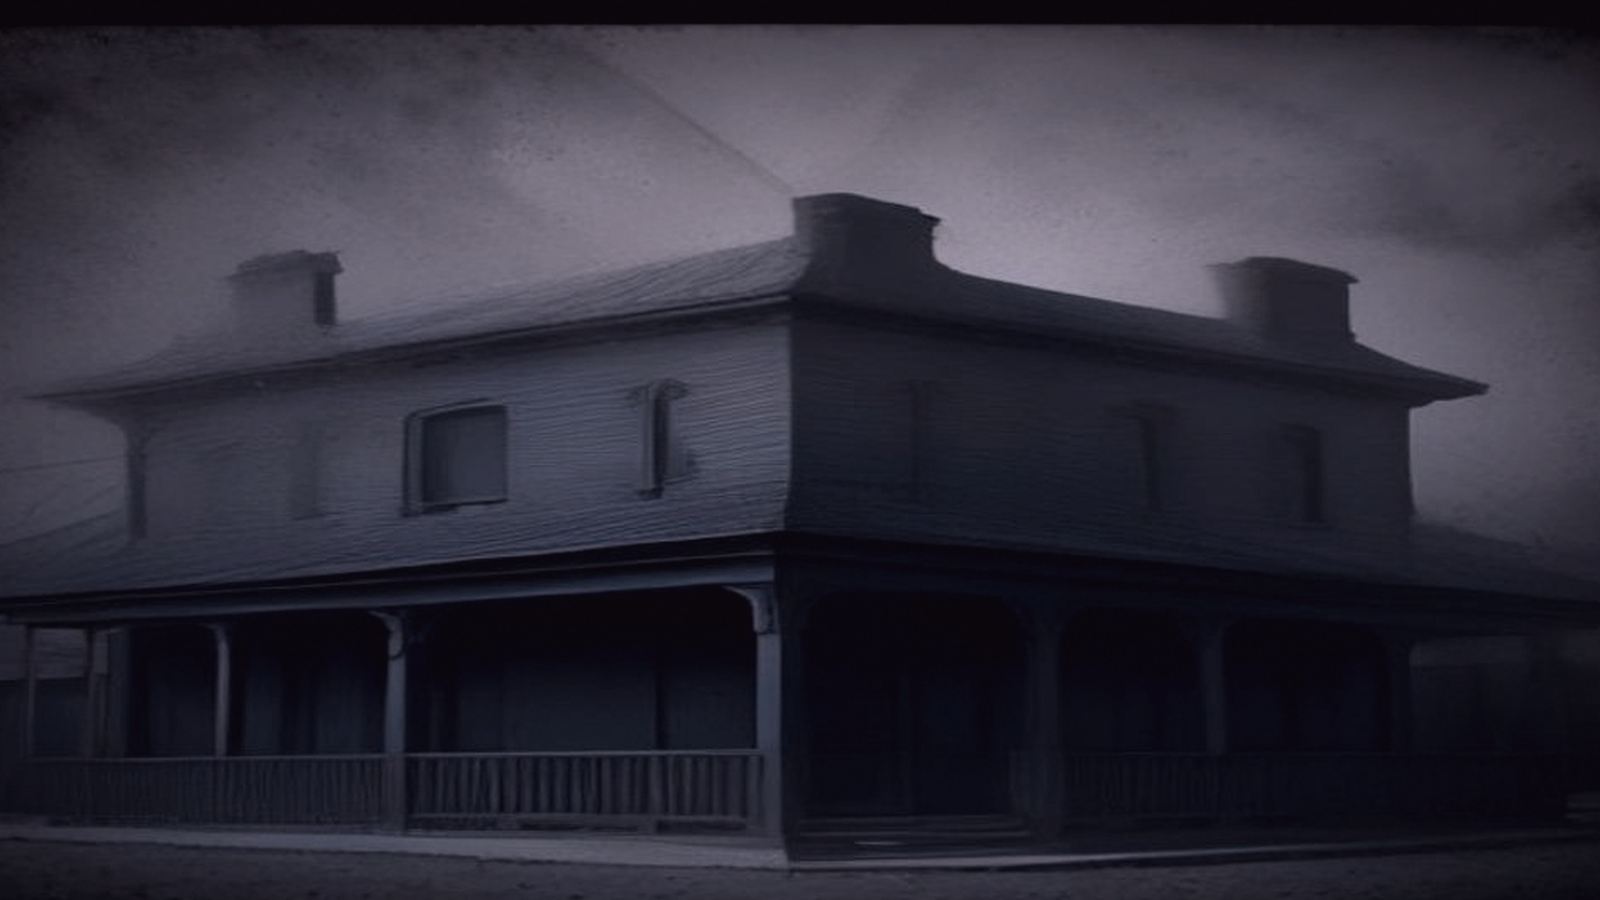
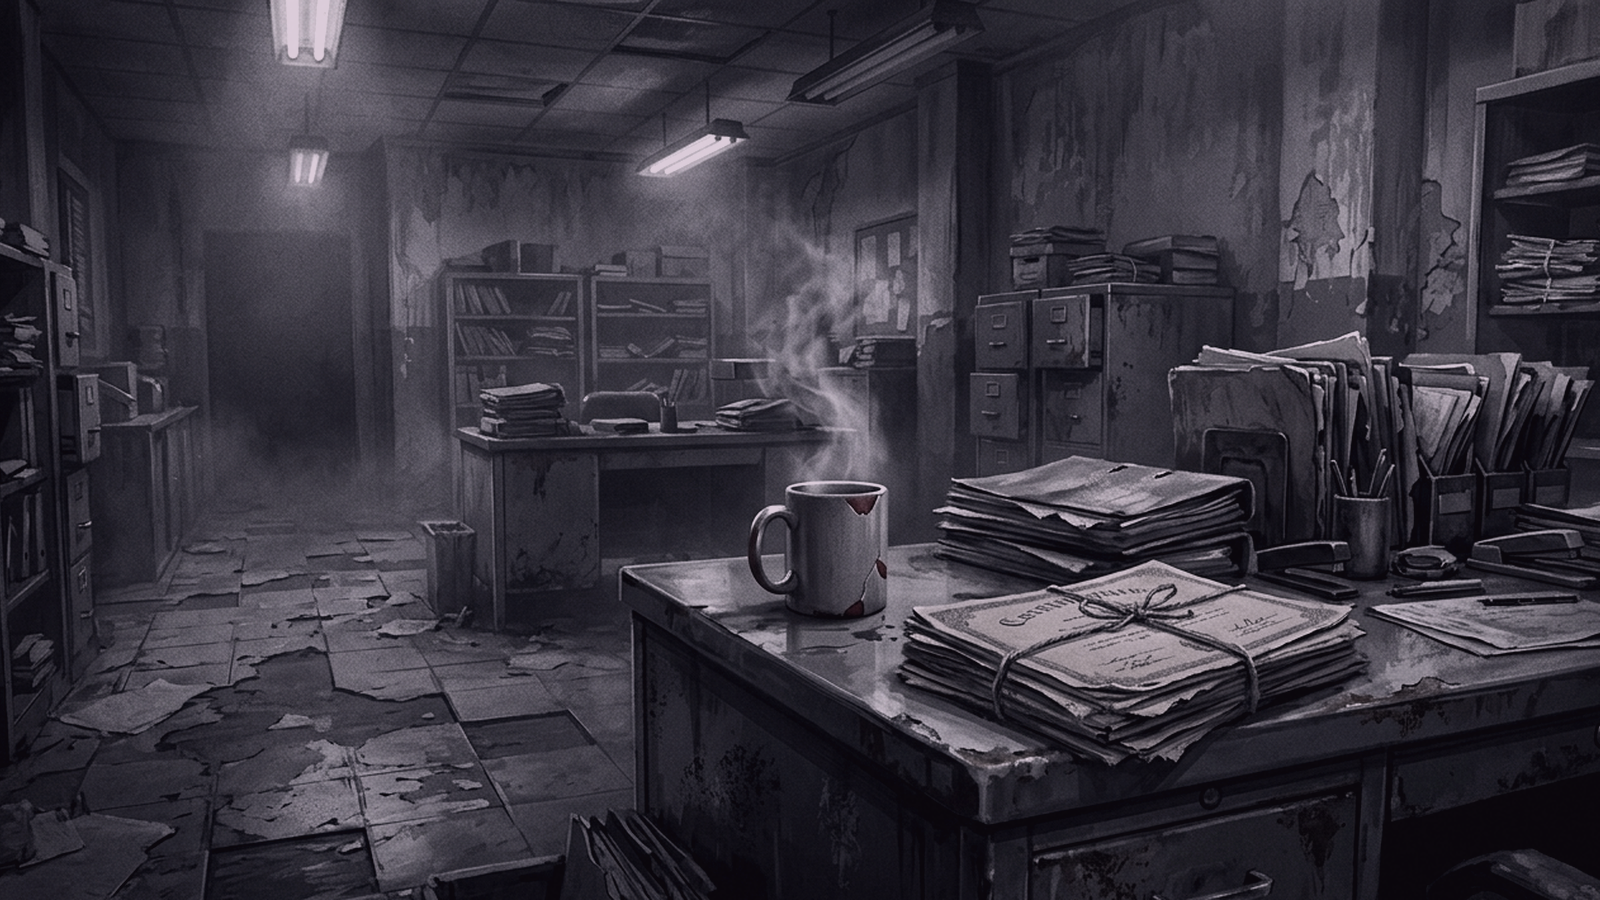
Illustrate daily stories: Nano Banana heroes + inline CSS-animated stills
Regenerated the 3 daily story cover images and added 4 inline illustrations
each (Ken Burns + fog), generated via local-LLM scene summaries → Gemini in the
series' fixed charcoal style.

diff --git a/daily/the-brass-threshold.html b/daily/the-brass-threshold.html
@@ -112,24 +112,40 @@
                     <p>
                         Mrs. Jensen shuffled into the office five minutes later, wiping her knuckles on a grease-stained canvas apron. "I'm dropping batter in the skillet at six, Perla. You want three pancakes or four?"
                     </p>
+                    <figure class="story-illus anim-kenburns">
+                        <img src="../images/daily/the-brass-threshold-illus-1.png" alt="" width="1280" height="720" loading="lazy" decoding="async">
+                        <span class="story-illus__fog" aria-hidden="true"></span>
+                    </figure>
                     <p>
                         Above the counter, a twin-tube fluorescent fixture hummed at sixty hertz, flickering once before settling into a dull yellow glare across the Formica.
                     </p>
                     <p>
                         Perla nodded without looking up. She knew the cadence of this place down to the inch. For nearly a month she had been stopping here to provide end-of-life care for Emily Wilson, a seventy-two-year-old former seamstress dying of pleural mesothelioma. Mr. Thompson, the funeral director, had paid Mrs. Jensen out of his own pocket to remain on site after midnight, turning the back wing into an impromptu hospice ward so Emily would not have to die in a county hospital three towns over. Perla arrived every morning at 4:30 a.m. to review the dosage charts with Mrs. Jensen and track Emily’s oxygen drops.
                     </p>
+                    <figure class="story-illus anim-kenburns">
+                        <img src="../images/daily/the-brass-threshold-illus-2.png" alt="" width="1280" height="720" loading="lazy" decoding="async">
+                        <span class="story-illus__fog" aria-hidden="true"></span>
+                    </figure>
                     <p>
                         She walked down the narrow central hallway toward the back room. As she passed the doorframe of Emily’s quarters, her right arm brushed against the pine jamb. The wood was worn down to the bare grain at precisely five feet four inches from the floor—her exact shoulder height—polished smooth by dozens of daily passes. She did not stop to look at it. Her focus was entirely on the cold air pushing out from under the threshold. The room’s radiator had died hours ago; the temperature had plummeted to fifty-two degrees, and Emily’s chest was moving in shallow, dry hitchings beneath two heavy wool blankets.
                     </p>
                     <p>
                         Perla went to the staff break room to retrieve the morning chart, expecting Mrs. Jensen’s usual arrangement on the counter: one mug half-filled with cold tap water and a single brown paper towel folded twice beside the zinc sink.
                     </p>
+                    <figure class="story-illus anim-kenburns">
+                        <img src="../images/daily/the-brass-threshold-illus-3.png" alt="" width="1280" height="720" loading="lazy" decoding="async">
+                        <span class="story-illus__fog" aria-hidden="true"></span>
+                    </figure>
                     <p>
                         Instead, the four-foot oak laminate table was set for two. Two blue stoneware cups sat on matching saucers. Two stainless steel spoons lay aligned with the edges of two cheap paper napkins. The heavy iron napkin dispenser in the center of the table was stamped with a white painted number: 14.
                     </p>
                     <p>
                         <em>She is preparing for the memorial service,</em> Perla thought. <em>The spring service always brings thirty-five or forty people. She started early and forgot to clear the test setting.</em>
                     </p>
+                    <figure class="story-illus anim-kenburns">
+                        <img src="../images/daily/the-brass-threshold-illus-4.png" alt="" width="1280" height="720" loading="lazy" decoding="async">
+                        <span class="story-illus__fog" aria-hidden="true"></span>
+                    </figure>
                     <p>
                         It was a sensible explanation. Mrs. Jensen was seventy-one and often mixed up the weekday routines when her knees flamed up.
                     </p>

diff --git a/daily/cable-landing-station.html b/daily/cable-landing-station.html
@@ -112,24 +112,40 @@
                     <p>
                         It was 3:17 a.m. The Pacific Ocean lay invisible beyond the security fence, three thousand miles of cold black water pressing against three feet of poured concrete and reinforced steel. A dozen thin stars pricked the marine fog above the bluffs.
                     </p>
+                    <figure class="story-illus anim-kenburns">
+                        <img src="../images/daily/cable-landing-station-illus-1.png" alt="" width="1280" height="720" loading="lazy" decoding="async">
+                        <span class="story-illus__fog" aria-hidden="true"></span>
+                    </figure>
                     <p>
                         He locked his truck. The driver’s side hinge squeaked twice against the salt air.
                     </p>
                     <p>
                         The main control building was a low box of ribbed aluminum and corrugated steel. Sodium lights overhead cast yellow circles across the pitted asphalt. Cyrus knew the ground by foot-feel: two hundred paces from the gate to the outer hatch, three steps over the raised threshold, four paces to the keycard reader. He had walked it every night for six months.
                     </p>
+                    <figure class="story-illus anim-kenburns">
+                        <img src="../images/daily/cable-landing-station-illus-2.png" alt="" width="1280" height="720" loading="lazy" decoding="async">
+                        <span class="story-illus__fog" aria-hidden="true"></span>
+                    </figure>
                     <p>
                         He stepped into the airlock. The pneumatic seal hissed, equalizing pressure with a heavy thump that vibrated through the heels of his boots.
                     </p>
                     <p>
                         Inside, the control room smelled of ozone, wet concrete, and scorched dust. Rack after rack of servers hummed in the dark, their blue LED status displays glowing softly against the linoleum floor.
                     </p>
+                    <figure class="story-illus anim-kenburns">
+                        <img src="../images/daily/cable-landing-station-illus-3.png" alt="" width="1280" height="720" loading="lazy" decoding="async">
+                        <span class="story-illus__fog" aria-hidden="true"></span>
+                    </figure>
                     <p>
                         Cyrus unclipped his key ring from his belt loop. There was the brass key for the diesel generator room, the square-head key for the cable repair shack, and the master key for the airlock bypass. Between them hung a heavy iron key stamped <em>D-9</em>. In six months of six-day shifts, he had never found a lock that fit it. Not on the breaker boxes, not on the server cages, not on the rusted access hatches along the seawall.
                     </p>
                     <p>
                         He tapped his tablet screen to run the hourly routine check. Signal strength on the subsea fiber bundles read steady at one hundred gigabits per second. Ocean depth sensors logged a seabed temperature of 3.8 degrees Celsius. The metrics scrolled past in clean vertical columns—numbers and graphs that meant nothing to him, but proved the continent was still talking to the rest of the world.
                     </p>
+                    <figure class="story-illus anim-kenburns">
+                        <img src="../images/daily/cable-landing-station-illus-4.png" alt="" width="1280" height="720" loading="lazy" decoding="async">
+                        <span class="story-illus__fog" aria-hidden="true"></span>
+                    </figure>
                     <p>
                         Cyrus walked over to the galley cutout to fill his water mug. On the stainless steel counter sat a white porcelain plate holding two sunny-side-up eggs and three strips of bacon. Steam rose from the yellow yolks into the cool air.
                     </p>

diff --git a/daily/caretaker-s-quarters.html b/daily/caretaker-s-quarters.html
@@ -112,24 +112,40 @@
                     <p>
                         The air smelled of wet spruce needles, woodsmoke, and the sour oil of dead machinery. It was nine in the morning, but the sun was trapped behind a ceiling of dark slate cloud that did not move. He was here for the monthly facility assessment with Mr. Jenkins, the camp caretaker. The mining camp had been closed since October, three months back, but the owners kept two men on the ledger to ensure the pipes did not freeze and the snow loads did not crush the roofs of the mess hall. It was routine work. Booker knew the routine by heart.
                     </p>
+                    <figure class="story-illus anim-kenburns">
+                        <img src="../images/daily/caretaker-s-quarters-illus-1.png" alt="" width="1280" height="720" loading="lazy" decoding="async">
+                        <span class="story-illus__fog" aria-hidden="true"></span>
+                    </figure>
                     <p>
                         Outside the six-by-eight caretaker's cabin, Jenkins stood near the front porch. He wore a heavy brown duck-canvas coat dusted with frost at the collar. In his right hand he held a red steel thermos, steam curling from the mouth in narrow white ribbons.
                     </p>
                     <p>
                         "Morning," Booker said.
                     </p>
+                    <figure class="story-illus anim-kenburns">
+                        <img src="../images/daily/caretaker-s-quarters-illus-2.png" alt="" width="1280" height="720" loading="lazy" decoding="async">
+                        <span class="story-illus__fog" aria-hidden="true"></span>
+                    </figure>
                     <p>
                         Jenkins grunted into his beard. He turned without a word and led the way inside, his heavy boots clattering on the two wooden steps.
                     </p>
                     <p>
                         The cabin was eight paces wide and twelve paces deep. A small cast-iron stove sat in the corner, radiating dry heat that smelled of scorched pine bark. A low faux-leather couch backed against the left wall, its vinyl split along the seams to expose yellow foam stuffing. Opposite the couch, a pine workbench stood cluttered with grease tubes, rusted socket wrenches, and half-empty cans of 3-in-One oil.
                     </p>
+                    <figure class="story-illus anim-kenburns">
+                        <img src="../images/daily/caretaker-s-quarters-illus-3.png" alt="" width="1280" height="720" loading="lazy" decoding="async">
+                        <span class="story-illus__fog" aria-hidden="true"></span>
+                    </figure>
                     <p>
                         Booker sat on the couch. The vinyl groaned beneath his weight. He unbuttoned his top coat and ran his palm across his damp hair, waiting for Jenkins to settle.
                     </p>
                     <p>
                         Jenkins rummaged in a drawer beneath the workbench, his thick fingers turning over yellowed paper. He pulled out a stapled stack of maintenance logs and handed them over to Booker.
                     </p>
+                    <figure class="story-illus anim-kenburns">
+                        <img src="../images/daily/caretaker-s-quarters-illus-4.png" alt="" width="1280" height="720" loading="lazy" decoding="async">
+                        <span class="story-illus__fog" aria-hidden="true"></span>
+                    </figure>
                     <p>
                         Booker picked up the stack. As he flipped through the top sheet, his eyes caught a folded jacket slung over the far arm of the couch. It was olive drill canvas with an uneven hem where the bottom thread had pulled loose. On the right elbow, a square patch of dark green felt had been sewn on with heavy black thread.
                     </p>
